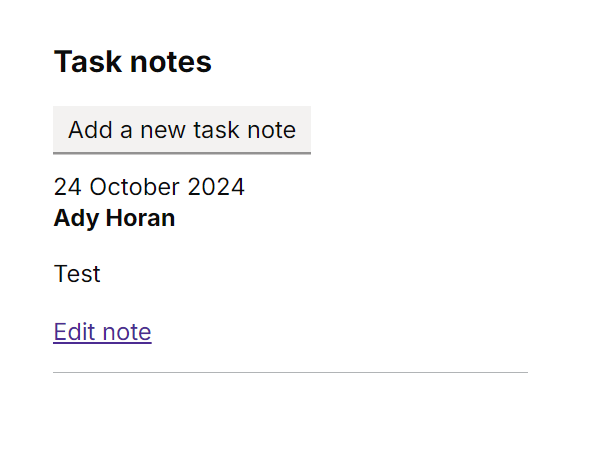
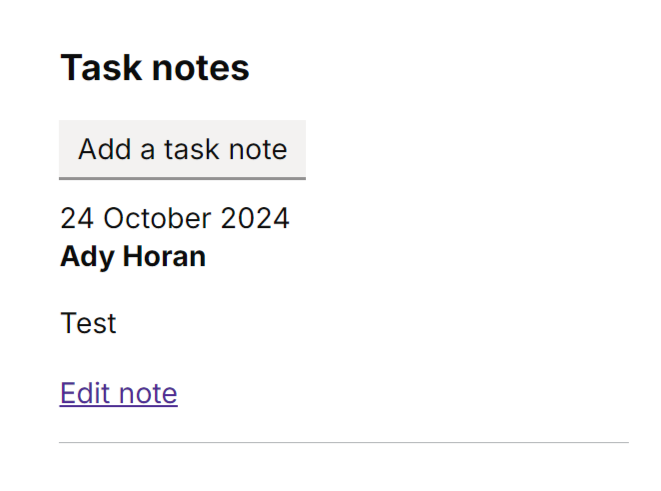
Text, task note image
Edited the text, and the task note image.

diff --git a/app/views/design-system/rsd-design-system/design-patterns/notes/index.html b/app/views/design-system/rsd-design-system/design-patterns/notes/index.html
@@ -100,17 +100,17 @@
     <p>We recommend naming the page 'Notes', rather than Project notes or Case notes. It is implied what the notes refer to, because they sit in a project or case.</p>
     <figure class="govuk-!-margin-bottom-9" style="margin: 0;">
       <img style="border: 1px solid #999999;" src="/assets/images/rsd-design-patterns/reading-project-notes-edit-notes.png"
-        alt="Reading project notes - edit notes" width="100%">
-      <figcaption>Projects notes section- no notes</figcaption>
+        alt="A notes tab in a project. It has an 'Add note' button and a note with an Edit link." width="100%">
+      <figcaption>A notes tab in a project. It has an 'Add note' button and a note with an Edit link.</figcaption>
     </figure>
     
     <h4>Reading task notes</h4>
     <p>Show notes at a task level, if you identify a user need to do this.</p>
 
     <figure class="govuk-!-margin-bottom-9" style="margin: 0;">
-      <img style="border: 1px solid #999999;" src="/assets/images/rsd-design-patterns/reading-task-notes-edit-notes.png"
-        alt="Reading task notes - edit notes" width="100%">
-      <figcaption>Task notes</figcaption>
+      <img style="border: 1px solid #999999;" src="/assets/images/rsd-design-patterns/editing-task-notes-permissions.png"
+        alt="A task notes section in a 'Handover with regional delivery officer' task. It has an 'Add a new task note' button and some existing notes." width="100%">
+      <figcaption>A task notes section in a 'Handover with regional delivery officer' task. It has an 'Add a new task note' button and some existing notes.</figcaption>
     </figure>
 
     {{ sample.code('/design-system/rsd-design-system/design-patterns/notes/example-reading-task-notes.html', 'Reading task notes', 'reading-task-notes',
@@ -123,16 +123,16 @@
 
     <figure class="govuk-!-margin-bottom-9" style="margin: 0;">
       <img style="border: 1px solid #999999;" src="/assets/images/rsd-design-patterns/reading-project-notes-edit-notes.png"
-        alt="Reading project notes - edit notes" width="100%">
-      <figcaption>Projects notes section- no notes</figcaption>
+        alt="A notes tab. It has an 'Add note' button and a note with an Edit link." width="100%">
+      <figcaption>A notes tab. It has an 'Add note' button and a note with an Edit link.</figcaption>
     </figure>
 
     <p>For task notes, use the secondary button if adding a note is not the main purpose of the page</p>
 
     <figure class="govuk-!-margin-bottom-9" style="margin: 0;">
-      <img style="border: 1px solid #999999;" src="/assets/images/rsd-design-patterns/reading-task-notes-edit-notes.png"
-        alt="Reading task notes - edit notes" width="100%">
-      <figcaption>Task notes</figcaption>
+      <img style="border: 1px solid #999999;" src="/assets/images-rsd-design-patterns-reading-task-notes-edit-notes.png"
+        alt="A task notes section. It has an 'Add a task note' button and an existing note." width="100%">
+      <figcaption>A task notes section. It has an 'Add a task note' button and an existing note.</figcaption>
     </figure>
 
     <p>Clicking the 'Add a note' button will take users to a new page where they can enter a note.</p>
@@ -146,8 +146,8 @@
 
     <figure class="govuk-!-margin-bottom-9" style="margin: 0;">
       <img style="border: 1px solid #999999;" src="/assets/images/rsd-design-patterns/adding-project-notes-text-area.png"
-        alt="Adding project notes" width="100%">
-      <figcaption>Adding notes</figcaption>
+        alt="A notes page with some hint text, a text area, a Save and continue button, and a Cancel link." width="100%">
+      <figcaption>A notes page with some hint text, a text area, a Save and continue button, and a Cancel link.</figcaption>
     </figure>
 
     <p>Once the note has been added, return the user back to the:
@@ -160,8 +160,8 @@
     
     <figure class="govuk-!-margin-bottom-9" style="margin: 0;">
       <img style="border: 1px solid #999999;" src="/assets/images/rsd-design-patterns/adding-project-notes-success-banner.png"
-        alt="Success banner" width="100%">
-      <figcaption>Success banner</figcaption>
+        alt="A project page with a notes tab. A success banner titled 'Your note has been added' appears at the top of the page." width="100%">
+      <figcaption>A project page with a notes tab. A success banner titled 'Your note has been added' appears at the top of the page.</figcaption>
     </figure>
 
     <h3>Editing notes</h3>
@@ -175,22 +175,22 @@
 
     <figure class="govuk-!-margin-bottom-9" style="margin: 0;">
       <img style="border: 1px solid #999999;" src="/assets/images/rsd-design-patterns/editing-notes-permissions.png"
-        alt="Editing notes permissions" width="100%">
-      <figcaption>Editing notes permissions</figcaption>
+        alt="A notes tab. It has an 'Add note' button, a note with an Edit link, and a note without an Edit link." width="100%">
+      <figcaption>A notes tab. It has an 'Add note' button, a note with an Edit link, and a note without an Edit link.</figcaption>
     </figure>
 
     <figure class="govuk-!-margin-bottom-9" style="margin: 0;">
       <img style="border: 1px solid #999999;" src="/assets/images/rsd-design-patterns/editing-task-notes-permissions.png"
-        alt="Editing task notes permissions" width="100%">
-      <figcaption>Editing task notes permissions</figcaption>
+        alt="A task notes section in a 'Handover with regional delivery officer' task. It has an 'Add a new task note' button, a note that can not be edited, and 2 notes that can." width="100%">
+      <figcaption>A task notes section in a 'Handover with regional delivery officer' task. It has an 'Add a new task note' button, a note that can not be edited, and 2 notes that can.</figcaption>
     </figure>
 
     <p>Clicking on the edit link should take a user to the enter note screen with the current note pre-populated.</p>
 
     <figure class="govuk-!-margin-bottom-9" style="margin: 0;">
       <img style="border: 1px solid #999999;" src="/assets/images/rsd-design-patterns/editing-notes-text-area.png"
-        alt="Edit notes text area" width="100%">
-      <figcaption>Edit notes text area</figcaption>
+        alt="A note page with a text area, hint text, a Save and continue primary button, a Delete warning button, and a Cancel link." width="100%">
+      <figcaption>A note page with a text area, hint text, a Save and continue primary button, a Delete warning button, and a Cancel link.</figcaption>
     </figure>
 
     <p>Once the note has been edited, return the user back to the:
@@ -201,9 +201,9 @@
     <p>Show a <a href="https://design-system.service.gov.uk/components/notification-banner/success/index.html">success banner</a> to confirm the note has been successfully edited.</p>
    
     <figure class="govuk-!-margin-bottom-9" style="margin: 0;">
-      <img style="border: 1px solid #999999;" src="/assets/images/rsd-design-patterns/editing-notes-success-banner.png"
-        alt="Success banner" width="100%">
-      <figcaption>Editing notes - success banner</figcaption>
+      <img style="border: 1px solid #999999;" src="/assets/images-rsd-design-patterns/editing-notes-success-banner.png"
+        alt="A project with a notes tab. A success banner titled 'Your note has been edited' appears at the top of the project page." width="100%">
+      <figcaption>A project with a notes tab. A success banner titled 'Your note has been edited' appears at the top of the project page.</figcaption>
     </figure>
 
     <h3>Deleting notes</h3>
@@ -211,16 +211,16 @@
     
     <figure class="govuk-!-margin-bottom-9" style="margin: 0;">
       <img style="border: 1px solid #999999;" src="/assets/images/rsd-design-patterns/editing-notes-text-area.png"
-        alt="Edit notes text area" width="100%">
-      <figcaption>Edit notes text area</figcaption>
+        alt="A note page with a text area, hint text, a Save and continue primary button, a Delete warning button, and a Cancel link." width="100%">
+      <figcaption>A note page with a text area, hint text, a Save and continue primary button, a Delete warning button, and a Cancel link.</figcaption>
     </figure>
 
     <p>Use a 'Delete' <a href="https://design-system.service.gov.uk/components/button/#:~:text=buttons%20together.-,Warning%20buttons,-Warning%20buttons%20are">warning button</a> that takes users to an 'Are you sure?' page. Deleting a note is a 'destructive' action that cannot be undone.</p>
     
     <figure class="govuk-!-margin-bottom-9" style="margin: 0;">
       <img style="border: 1px solid #999999;" src="/assets/images/rsd-design-patterns/deleting-notes-are-you-sure.png"
-        alt="Deleting notes" width="100%">
-      <figcaption>Deleting notes</figcaption>
+        alt="A page with the h1 'Are you sure you want to delete this note?', some paragraph text, a Delete warning button and a Cancel link." width="100%">
+      <figcaption>A page with the h1 'Are you sure you want to delete this note?', some paragraph text, a Delete warning button and a Cancel link.</figcaption>
     </figure>
 
     <p>If the user selects the Delete button, return the user back to the:
@@ -233,8 +233,8 @@
 
       <figure class="govuk-!-margin-bottom-9" style="margin: 0;">
         <img style="border: 1px solid #999999;" src="/assets/images/rsd-design-patterns/deleting-notes-success-banner.png"
-          alt="Deleting notes - success banner" width="100%">
-        <figcaption>Deleting notes</figcaption>
+          alt="A project page. A success banner titled 'Your note has been deleted' appears at the top of the page." width="100%">
+        <figcaption>A project page. A success banner titled 'Your note has been deleted' appears at the top of the page.</figcaption>
       </figure>
    
       <h3>Error message</h3>
@@ -242,8 +242,8 @@
     
     <figure class="govuk-!-margin-bottom-9" style="margin: 0;">
       <img style="border: 1px solid #999999;" src="/assets/images/rsd-design-patterns/notes-error-message.png"
-        alt="Error message" width="100%">
-      <figcaption>Error message</figcaption>
+        alt="A note page with a text area for entering the note, and the error summary and message 'Enter a note'." width="100%">
+      <figcaption>A note page with a text area for entering the note, and the error summary and message 'Enter a note'.</figcaption>
     </figure>
 
     <h2>Research on this pattern</h2>
